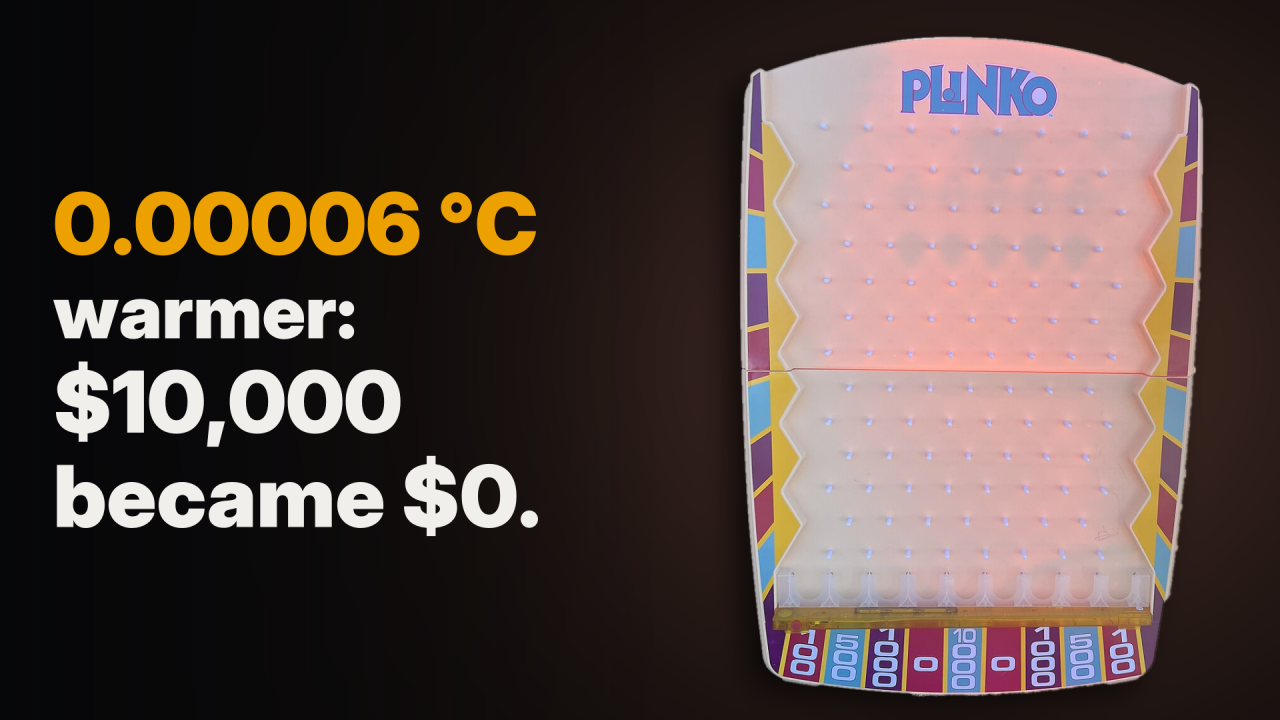
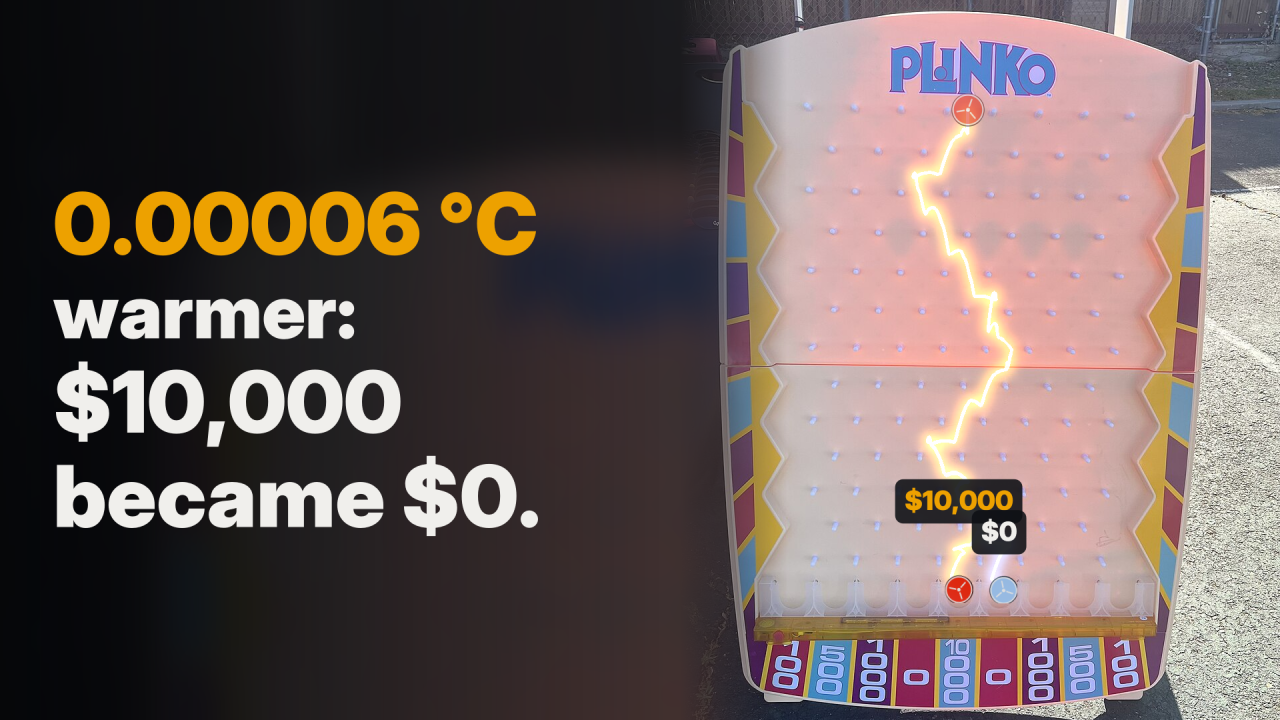
Thumbnails A3/B3/C3: the real photo with the film's chips and paths on it
Drops the cut-out board. The photo keeps its background; a homography fitted
to 96 detected pegs (1.4 px error) maps the film's simulated paths onto the
board's own pegs: one release point, glowing gold and blue trails, rendered
chips (blender/render_thumb_chips.py) in their slots and prize labels. A3 and
B3 use the opening drop and its replay, C3 the warm-board pair.

Claude-Session: https://claude.ai/code/session_01S7EUMzPhLyDgSQHoFb2Ud4

diff --git a/plinko/thumbs_chaos.py b/plinko/thumbs_chaos.py
@@ -8,8 +8,9 @@ Text  A  "Same release point. Different prize."
 Picture 1  the hook's last frame: a $10,000 drop and its atom-close replay in $500 (prize pills shown, except
            with text C, which names $0)
         2  the warm-board pair: the same release point, the board 0.00006 C warmer, $10,000 and $0
-        3  a photo of a real Plinko board (the official home game) cut out of its background: "The Price Is Right
-           Plinko Home Game" by TaurusEmerald, CC BY-SA 4.0 (Wikimedia Commons; see
+        3  a photo of a real Plinko board (the official home game) with the film's two paths drawn on its own pegs
+           and our chips in the slots: "The Price Is Right Plinko Home Game" by TaurusEmerald, CC BY-SA 4.0
+           (Wikimedia Commons; see
            ../videos/plinko/thumbnails/sources/ATTRIBUTION.md). The *3 thumbnails adapt it, so they are CC BY-SA 4.0
            too, and a description that uses one must carry the attribution.
 Text is sized down where needed so it never reaches the board.
@@ -47,90 +48,106 @@ def labels(cm, crop, win, rep):
 
 
 SRC = "../videos/plinko/thumbnails/sources/The_Price_Is_Right_Plinko_Home_Game_960px.jpg"
-CUTOUT = "../videos/plinko/thumbnails/sources/The_Price_Is_Right_Plinko_Home_Game_cutout.png"
+CHIPS = {"red": "blender/assets/thumb/chip_red.png", "blue": "blender/assets/thumb/chip_blue.png"}
 
 
-def make_cutout():
-    """The board alone, background transparent: GrabCut from a box around the board, largest piece, holes
-    filled, smoothed, pulled in 1 px off the background fringe, feathered. Saved as RGBA (CC BY-SA 4.0, like
-    its source)."""
-    im = cv2.imread(SRC)
-    mask = np.zeros(im.shape[:2], np.uint8)
-    bgd, fgd = np.zeros((1, 65), np.float64), np.zeros((1, 65), np.float64)
-    cv2.setRNGSeed(1)
-    cv2.grabCut(im, mask, (105, 105, 770, 1080), bgd, fgd, 8, cv2.GC_INIT_WITH_RECT)
-    fg = np.where((mask == cv2.GC_FGD) | (mask == cv2.GC_PR_FGD), 255, 0).astype(np.uint8)
-
-    def largest(m):
-        _, lab, st, _ = cv2.connectedComponentsWithStats(m)
-        return np.where(lab == 1 + int(np.argmax(st[1:, cv2.CC_STAT_AREA])), 255, 0).astype(np.uint8)
-    fg = largest(fg)
-    cnts, _ = cv2.findContours(fg, cv2.RETR_EXTERNAL, cv2.CHAIN_APPROX_NONE)
-    fg = cv2.drawContours(np.zeros_like(fg), cnts, -1, 255, -1)
-    k = cv2.getStructuringElement(cv2.MORPH_ELLIPSE, (11, 11))
-    fg = largest(cv2.morphologyEx(cv2.morphologyEx(fg, cv2.MORPH_OPEN, k), cv2.MORPH_CLOSE, k))
-    fg = cv2.erode(fg, cv2.getStructuringElement(cv2.MORPH_ELLIPSE, (3, 3)))
-    fg = smooth_bottom(im, fg)
-    alpha = cv2.GaussianBlur(fg, (0, 0), 1.2)
-    x, y, w, h = cv2.boundingRect(fg)
-    out = np.dstack([im, alpha])[max(0, y - 6):y + h + 6, max(0, x - 6):x + w + 6]
-    cv2.imwrite(CUTOUT, out)
-    return out
+def photo_pegs(im):
+    """Peg centres in the photo: small bluish-white dots on the cream board, below the logo."""
+    b, g, r = [im[..., i].astype(int) for i in range(3)]
+    m = (((b - r) > 6) & (b > 170)).astype(np.uint8) * 255
+    _, _, st, cen = cv2.connectedComponentsWithStats(m)
+    return np.array([c for c, q in zip(cen[1:], st[1:]) if 8 <= q[cv2.CC_STAT_AREA] <= 160 and 240 < c[1] < 980
+                     and 180 < c[0] < 790])
 
 
-def smooth_bottom(im, fg, rim=7, corner=41):
-    """Replace the base (feet and the uneven rim under the prize panel) with one smooth curve: fit a parabola to
-    the bottom of the coloured panel, cut everything more than `rim` px below it, then round the corners where
-    the curve meets the sides (an opening, applied to the bottom of the board only)."""
-    hsv = cv2.cvtColor(im, cv2.COLOR_BGR2HSV)
-    ys_, xs_ = np.nonzero(fg)
-    y_bot = ys_.max()
-    band = slice(y_bot - 200, y_bot + 1)
-    xs, ys = [], []
-    for x in range(fg.shape[1]):
-        col = np.nonzero((hsv[band, x, 1] > 90) & (fg[band, x] > 0))[0]
-        if len(col):
-            xs.append(x)
-            ys.append(band.start + col.max())
-    xs, ys = np.array(xs, float), np.array(ys, float)
-    lo, hi = np.percentile(xs, 12), np.percentile(xs, 88)               # the panel's straight run, not its ends
-    sel = (xs >= lo) & (xs <= hi)
-    for _ in range(3):                                                   # robust: drop columns far off the fit
-        c = np.polyfit(xs[sel], ys[sel], 2)
-        r = ys - np.polyval(c, xs)
-        sel &= np.abs(r) < 6
-    curve = np.polyval(c, np.arange(fg.shape[1])) + rim
-    yy = np.arange(fg.shape[0])[:, None]
-    cut = np.where(yy <= curve[None, :], fg, 0).astype(np.uint8)
-    k = cv2.getStructuringElement(cv2.MORPH_ELLIPSE, (corner, corner))
-    opened = cv2.morphologyEx(cut, cv2.MORPH_OPEN, k)
-    low = yy >= y_bot - 160
-    return np.where(low, opened, cut).astype(np.uint8)
+def board_to_photo(im):
+    """Homography from board coordinates (m) to photo pixels: the four corner pegs first, then every peg."""
+    pts = photo_pegs(im)
+    pts = pts[np.argsort(pts[:, 1])]
+    rows, cur = [], [pts[0]]
+    for p in pts[1:]:
+        if p[1] - cur[-1][1] > 12:
+            rows.append(np.array(cur))
+            cur = [p]
+        else:
+            cur.append(p)
+    rows.append(np.array(cur))
+    while len(rows[0]) < 5:                                   # stray hits on the logo above the first row
+        rows.pop(0)
+    assert len(rows) == 13, f"expected 13 peg rows, found {len(rows)}"
+    W_, Hs = CC.W, C3.B.ROW_SPACING
+    r0, r10 = rows[0][np.argsort(rows[0][:, 0])], rows[10][np.argsort(rows[10][:, 0])]
+    assert len(r0) == 8 and len(r10) == 8, "the corner rows must be complete"
+    src = np.float32([[1.5 * W_, 0], [8.5 * W_, 0], [1.5 * W_, 10 * Hs], [8.5 * W_, 10 * Hs]])
+    dst = np.float32([r0[0], r0[-1], r10[0], r10[-1]])
+    H0 = cv2.getPerspectiveTransform(src, dst)
+    pegs, _ = C3.B.pegs()
+    proj = cv2.perspectiveTransform(pegs[None].astype(np.float32), H0)[0]
+    bs, ps = [], []
+    for q in pts:
+        d = np.hypot(*(proj - q).T)
+        k = int(np.argmin(d))
+        if d[k] < 15:
+            bs.append(pegs[k])
+            ps.append(q)
+    H, _ = cv2.findHomography(np.float32(bs), np.float32(ps), cv2.RANSAC, 4.0)
+    err = np.hypot(*(cv2.perspectiveTransform(np.float32(bs)[None], H)[0] - np.float32(ps)).T)
+    print(f"photo board: {len(bs)} pegs matched, fit error {np.sqrt((err ** 2).mean()):.1f} px")
+    return H
 
 
-def photo_frame():
-    """A photo of a real Plinko board, cut out of its background, on the film's dark backdrop."""
+def photo_frame(win, rep, ox=60, oy=105):
+    """The real photo (background and all), with the film's two paths drawn on its pegs: one release point, two
+    glowing trails, the chips in their slots and a faint chip where both were let go."""
     OW, OH = CC.OW, CC.OH
-    cut = cv2.imread(CUTOUT, cv2.IMREAD_UNCHANGED)
-    if cut is None:
-        cut = make_cutout()
-    H = 1000
-    cut = cv2.resize(cut, (int(cut.shape[1] * H / cut.shape[0]), H), interpolation=cv2.INTER_AREA)
-    rgb, a = cut[..., :3] / 255.0, cut[..., 3:4] / 255.0
-    yy, xx = np.mgrid[0:OH, 0:OW]
-    x0, y0 = OW - cut.shape[1] - 110, (OH - H) // 2 + 10
-    cx, cy = x0 + cut.shape[1] / 2, OH / 2
-    glow = np.exp(-(((xx - cx) / 620.0) ** 2 + ((yy - cy) / 520.0) ** 2))[..., None]
-    img = np.empty((OH, OW, 3), np.float32)
-    img[:] = (0.04, 0.045, 0.06)                                     # BGR, as cv2 and finish() use
-    img += glow * np.array([0.10, 0.12, 0.20])                       # warm light behind the board
-    sh = np.zeros((OH, OW), np.float32)                              # soft shadow, down and to the left
-    sh[y0 + 18:y0 + 18 + H, x0 - 22:x0 - 22 + cut.shape[1]] = a[..., 0]
-    sh = cv2.GaussianBlur(sh, (0, 0), 22)[..., None]
-    img *= 1 - 0.65 * sh
-    reg = img[y0:y0 + H, x0:x0 + cut.shape[1]]
-    img[y0:y0 + H, x0:x0 + cut.shape[1]] = rgb * a + reg * (1 - a)
-    return img, x0
+    im = cv2.imread(SRC)
+    H = board_to_photo(im)
+    crop = im[oy:oy + OH, ox:].astype(np.float32) / 255.0
+    x0 = OW - crop.shape[1]
+    # backdrop: the same photo, blurred and dark, behind the text
+    cover = cv2.resize(im, (OW, int(im.shape[0] * OW / im.shape[1])))[:OH].astype(np.float32) / 255.0
+    img = cv2.GaussianBlur(cover, (0, 0), 30) * 0.28
+    ramp = np.clip((np.arange(OW) - x0) / 160.0, 0, 1)[None, :, None]
+    img[:, x0:] = crop * ramp[:, x0:] + img[:, x0:] * (1 - ramp[:, x0:])
+    to_canvas = lambda q: q - np.array([ox, oy]) + np.array([x0, 0])
+
+    def proj(xy):
+        return to_canvas(cv2.perspectiveTransform(np.float32(xy)[None], H)[0])
+    # trails: a soft glow and a bright core, added to the photo
+    glow = np.zeros((OH, OW, 3), np.float32)
+    core = np.zeros((OH, OW, 3), np.float32)
+    for rec, col in ((rep, D.S1), (win, D.GOLD)):
+        pts = proj(rec[:, 1:3]).astype(np.int32)
+        bgr = np.array(col[::-1], np.float32)
+        cv2.polylines(glow, [pts], False, tuple(float(v) for v in bgr), 10, cv2.LINE_AA)
+        cv2.polylines(core, [pts], False, tuple(float(v) * 0.4 + 0.6 for v in bgr), 3, cv2.LINE_AA)
+    img = np.clip(img + 0.9 * cv2.GaussianBlur(glow, (0, 0), 9) + 0.85 * core, 0, 1)
+
+    def paste(name, xy_board, ang, alpha=1.0):
+        ch = cv2.imread(CHIPS[name], cv2.IMREAD_UNCHANGED)
+        ys, xs = np.nonzero(ch[..., 3] > 10)
+        ch = ch[ys.min():ys.max() + 1, xs.min():xs.max() + 1]
+        c = proj([xy_board])[0]
+        e = proj([[xy_board[0] + C3.B.CHIP_DIAMETER / 2, xy_board[1]]])[0]
+        d = 2 * float(np.hypot(*(e - c)))
+        ch = cv2.resize(ch, (int(d), int(d)), interpolation=cv2.INTER_AREA)
+        M_ = cv2.getRotationMatrix2D((d / 2, d / 2), -np.degrees(ang), 1.0)
+        ch = cv2.warpAffine(ch, M_, (int(d), int(d)), flags=cv2.INTER_LINEAR, borderValue=(0, 0, 0, 0))
+        x, y = int(round(c[0] - d / 2)), int(round(c[1] - d / 2))
+        a = ch[..., 3:4] / 255.0 * alpha
+        reg = img[y:y + ch.shape[0], x:x + ch.shape[1]]
+        img[y:y + ch.shape[0], x:x + ch.shape[1]] = ch[..., :3] / 255.0 * a + reg * (1 - a)
+    paste("red", win[0, 1:3], win[0, 3], 0.55)                     # where both were let go
+    paste("blue", rep[-1, 1:3], rep[-1, 3])
+    paste("red", win[-1, 1:3], win[-1, 3])
+
+    def pills(ctx):
+        kw, kr = int(round(win[-1, 1] / CC.W)), int(round(rep[-1, 1] / CC.W))
+        adjacent = abs(kw - kr) == 1
+        for k, lab, gold, dy in ((kw, "$10,000", True, 96 if adjacent else 50), (kr, D.SLOT_LABELS[kr - 1], False, 50)):
+            q = proj([[k * CC.W, C3.B.last_row_y() + 0.2 * CC.W]])[0]
+            D.pill(ctx, lab, q[0], q[1] - dy, 40, D.GOLD if gold else D.INK)
+    return img, pills, x0
 
 
 TEXTS = {
@@ -164,9 +181,11 @@ if __name__ == "__main__":
     pics["1"] = (img, labels(cm, crop, CC.HP["hook_win"], CC.HP["hook_replay"]), 860)
     img, cm, crop = shot_frame("warm", 15.5, CC.ov_warm)
     pics["2"] = (img, labels(cm, crop, CC.HP["warm_win"], CC.HP["warm_replay"]), 860)
-    img, x0 = photo_frame()
-    pics["3"] = (img, None, x0 - 160)
+    photo = {"hook": photo_frame(CC.HP["hook_win"], CC.HP["hook_replay"]),
+             "warm": photo_frame(CC.HP["warm_win"], CC.HP["warm_replay"])}
     for tk, lines in TEXTS.items():
+        img, pills, x0 = photo["warm" if tk == "C" else "hook"]
+        pics["3"] = (img, pills, x0 - 120)
         for pk, (img, pills, max_w) in pics.items():
             extra = None if (tk == "C" and pk == "1") else pills       # don't show $500 beside "became $0"
             T.finish(img.copy(), layout(lines, max_w), f"plinko_chaos_thumb_{tk}{pk}", extra=extra)

diff --git a/plinko/blender/render_thumb_chips.py b/plinko/blender/render_thumb_chips.py
@@ -1,0 +1,31 @@
+"""Render single Plinko chips with a transparent background, for compositing onto a photo of a board.
+
+    blender -b --factory-startup -P blender/render_thumb_chips.py
+Writes blender/assets/thumb/chip_red.png and chip_blue.png (600 x 600 RGBA, the chip facing the camera, lit by the
+studio's lights).
+"""
+import os
+import sys
+
+import bpy
+
+sys.path.insert(0, os.path.dirname(os.path.abspath(__file__)))
+import scene as S  # noqa: E402
+
+OUT = os.path.join(os.path.dirname(os.path.abspath(__file__)), "assets", "thumb")
+M, rig, signs = S.build()
+S.render_settings(samples=96, res=(600, 600), motion_blur=False)
+sc = bpy.context.scene
+sc.render.film_transparent = True
+sc.render.image_settings.color_mode = "RGBA"
+loc, rot = S.chip_world(5.0 * S.W, 6.0 * S.H, 0.35)
+cam, tgt = S.camera(lens=200, loc=(loc.x, loc.y - 1.6, loc.z + 0.12), target=tuple(loc), fstop=16)
+for face, name in (("chip_face", "chip_red"), ("chip_blue_face", "chip_blue")):
+    chip = S.new_chip(name, M, face)
+    chip.location, chip.rotation_euler = loc, rot
+    for ob in sc.objects:
+        if ob.type in ("MESH", "CURVE", "FONT"):
+            ob.hide_render = ob is not chip
+    sc.render.filepath = os.path.join(OUT, f"{name}.png")
+    bpy.ops.render.render(write_still=True)
+    chip.hide_render = True

diff --git a/videos/copy/plinko_chaos_YOUTUBE.md b/videos/copy/plinko_chaos_YOUTUBE.md
@@ -12,14 +12,15 @@ by simulated releases the chip can't physically make; see `plinko/ACCURACY.md` s
 In `plinko/thumbnails/`, 1280x720, built by `plinko/thumbs_chaos.py`: every pairing of three lines of text with
 three pictures, named `plinko_chaos_thumb_<text><picture>.png`. YouTube's thumbnail test takes up to three.
 
-| | 1: the opening drop and its replay ($10,000 and $500) | 2: the warm-board pair ($10,000 and $0) | 3: a photo of a real Plinko board |
+| | 1: the opening drop and its replay ($10,000 and $500) | 2: the warm-board pair ($10,000 and $0) | 3: a photo of a real Plinko board, with the film's two paths and chips drawn on its pegs |
 |---|---|---|---|
 | **A** "Same release point. Different prize." | `A1` | `A2` | `A3` |
 | **B** "Match release point to an atom, different result." | `B1` | `B2` | `B3` |
 | **C** "0.00006 °C warmer: $10,000 became $0." | `C1` (prize pills left off: the chip shown lands in $500) | `C2` | `C3` |
 
-The natural pairs are A1, B1 and C2, where the picture shows exactly what the text says; column 3 trades that for
-instant recognition of a real board. Suggested test: A1, A3 and C2.
+The natural pairs are A1, B1 and C2, where the picture shows exactly what the text says. Column 3 shows the same
+story on a photo of a real board (the official home game): the drop and its replay for A3 and B3, the warm-board
+pair for C3, drawn on that board's own pegs. Suggested test: A3, A1 and C2.
 
 **If you use a thumbnail from column 3**, add this line to the end of the description (the photo's licence requires
 the credit, and those thumbnails, as adaptations of it, are themselves CC BY-SA 4.0):

diff --git a/videos/plinko/thumbnails/sources/ATTRIBUTION.md b/videos/plinko/thumbnails/sources/ATTRIBUTION.md
@@ -5,7 +5,8 @@
 https://commons.wikimedia.org/wiki/File:The_Price_Is_Right_Plinko_Home_Game.jpg
 licensed CC BY-SA 4.0 (https://creativecommons.org/licenses/by-sa/4.0/).
 
-`The_Price_Is_Right_Plinko_Home_Game_cutout.png` is the board cut out of its background (alpha mask from
-OpenCV GrabCut, `plinko/thumbs_chaos.py make_cutout`), and `plinko_chaos_thumb_A3.png`, `B3` and `C3` place that cut-out
-on a dark background beside text. All of these adapt the photo and are therefore also licensed CC BY-SA 4.0. The PLINKO name and logo on the board are trademarks of their owners; their appearance
-does not imply endorsement.
+`plinko_chaos_thumb_A3.png`, `B3` and `C3` adapt it: cropped, with the film's two simulated paths drawn on the
+board's pegs (mapped onto the photo by a homography fitted to 96 detected pegs), rendered chips added
+(`plinko/blender/render_thumb_chips.py`), prize labels and text beside it. They are therefore also licensed
+CC BY-SA 4.0. The PLINKO name and logo on the board are trademarks of their owners; their appearance does not
+imply endorsement.
